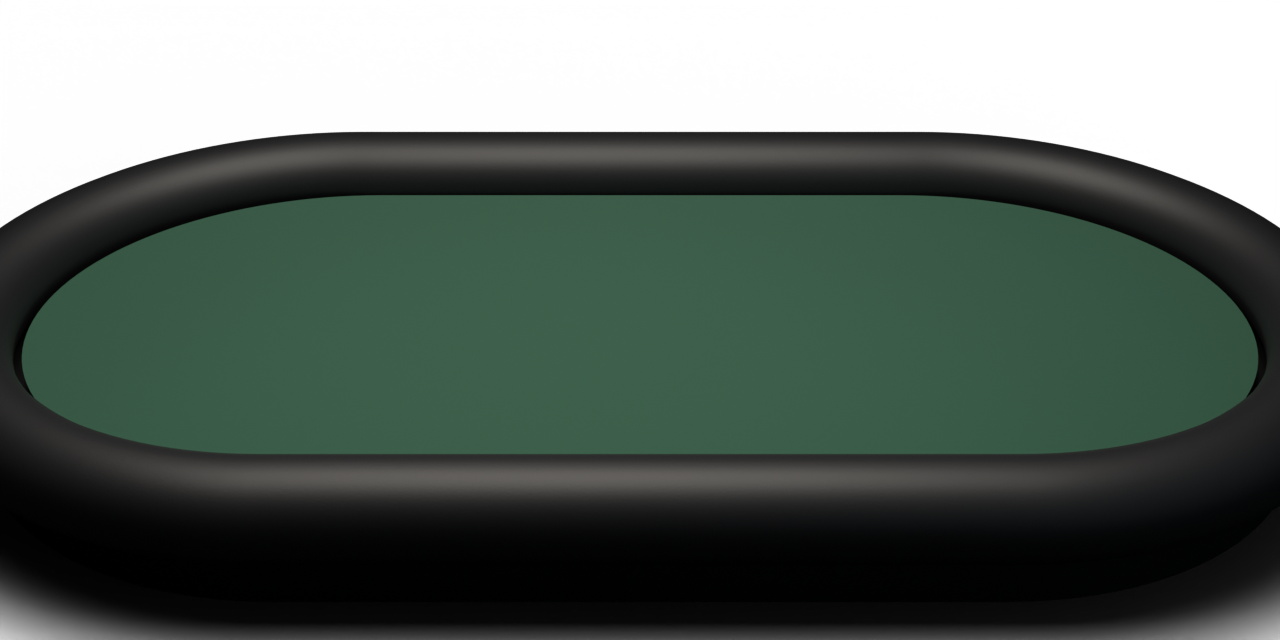
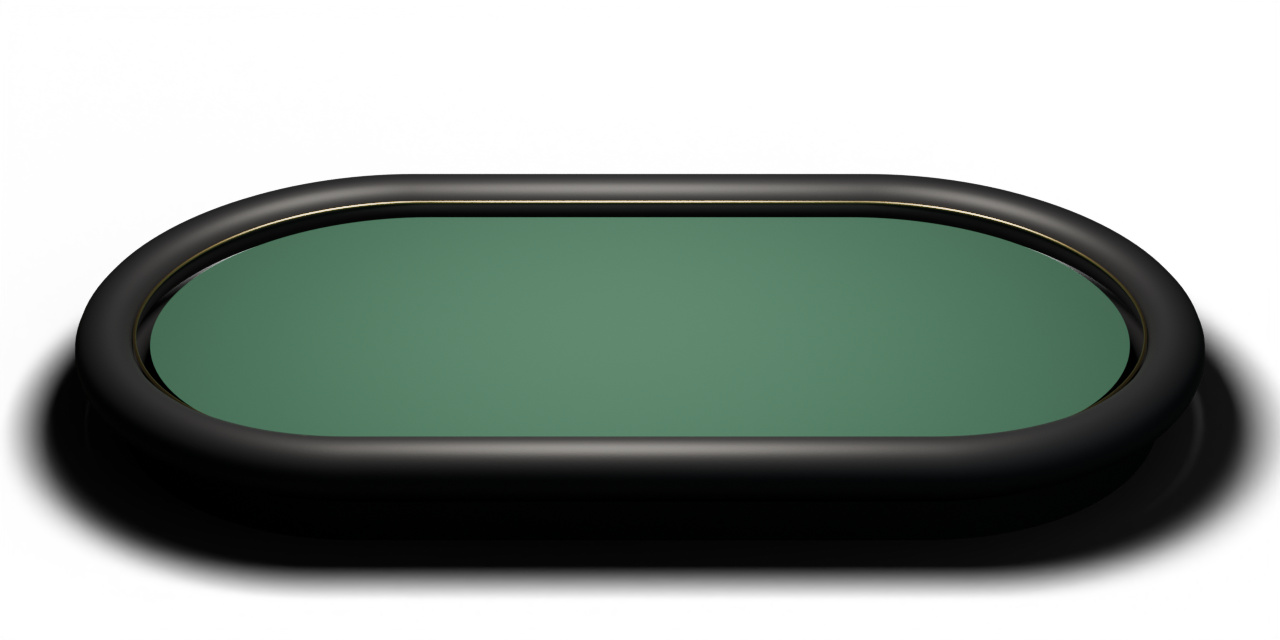
fix(lab): a 3D table that fits its frame, and an honest note on it

diff --git a/app/lab/felt/page.tsx b/app/lab/felt/page.tsx
@@ -22,7 +22,7 @@ const TABLES = [
   {
     src: '/lab/table-3d.png',
     name: 'Desktop, rendered in 3D',
-    note: 'The same table built as real geometry and lit in Blender (scripts/render-table-3d.py) — a padded cushion, a lamp over the cloth, and a shadow the renderer worked out rather than one we drew. Not in the app yet.',
+    note: 'The same table built as real geometry and lit in Blender (scripts/render-table-3d.py). Honest state of it: the cushion and the shadow are real, but the cloth is flatter and greyer than the one above, and the materials want a proper pass. Not in the app, and not better than what is.',
   },
   {
     src: '/lab/mobile-before.png',

diff --git a/scripts/render-table-3d.py b/scripts/render-table-3d.py
@@ -24,15 +24,15 @@ import bpy
 # The table, in metres. A real nine-handed table is about 2.1m by 1.1m.
 HALF_STRAIGHT = 0.52  # half the straight run down each side
 END_RADIUS = 0.55  # the radius of each rounded end
-RAIL_RADIUS = 0.075  # the cushion's own thickness
+RAIL_RADIUS = 0.055  # the cushion's own thickness
 SKIRT = 0.13  # how far the table's body drops below the cloth
 
 POSES = {
     # Landscape: the wide 2:1 felt a desktop draws.
     'desktop': {
         'size': (1280, 640),
-        'camera': (0.0, -2.62, 1.46),
-        'lens': 52,
+        'camera': (0.0, -3.15, 1.78),
+        'lens': 50,
         'out': 'public/table-desktop-salon.png',
     },
     # Portrait: the same table stood on its end for a phone.
@@ -122,7 +122,7 @@ def build():
     cloth = stadium('cloth', z=0.0)
     cloth.scale = (0.92, 0.86, 1.0)  # the felt stops short of the cushion
     cloth.data.materials.append(
-        material('felt', (0.024, 0.092, 0.055), 0.95, sheen=0.45, bump=(520.0, 0.045))
+        material('felt', (0.026, 0.1, 0.06), 0.94, sheen=0.35, bump=(520.0, 0.04))
     )
 
     rail = stadium('rail', z=0.012, fill=False, bevel=RAIL_RADIUS)
@@ -132,8 +132,8 @@ def build():
     body.scale = (0.99, 0.99, 1.0)
     body.data.materials.append(material('body', (0.014, 0.014, 0.016), 0.6))
 
-    inlay = stadium('inlay', z=0.052, fill=False, bevel=0.004)
-    inlay.scale = (0.955, 0.925, 1.0)
+    inlay = stadium('inlay', z=0.026, fill=False, bevel=0.0035)
+    inlay.scale = (0.945, 0.905, 1.0)
     inlay.data.materials.append(material('brass', (0.62, 0.48, 0.22), 0.28, metallic=1.0))
 
     bpy.ops.mesh.primitive_plane_add(size=12, location=(0, 0, -SKIRT - 0.02))
@@ -146,11 +146,11 @@ def build():
 def light():
     """One soft lamp over the table, and a dim fill, as a card room is lit."""
     key = bpy.data.lights.new('key', 'AREA')
-    key.energy = 58
-    key.size = 1.9
+    key.energy = 62
+    key.size = 0.85
     key.color = (1.0, 0.95, 0.86)
     key_obj = bpy.data.objects.new('key', key)
-    key_obj.location = (-0.15, -0.08, 1.95)
+    key_obj.location = (-0.08, -0.04, 1.55)
     key_obj.rotation_euler = (math.radians(8), math.radians(-7), 0)
     bpy.context.collection.objects.link(key_obj)
 
@@ -164,7 +164,7 @@ def light():
     bpy.context.collection.objects.link(fill_obj)
 
     rim = bpy.data.lights.new('rim', 'AREA')
-    rim.energy = 60
+    rim.energy = 34
     rim.size = 3.0
     rim.color = (0.7, 0.82, 1.0)
     rim_obj = bpy.data.objects.new('rim', rim)
